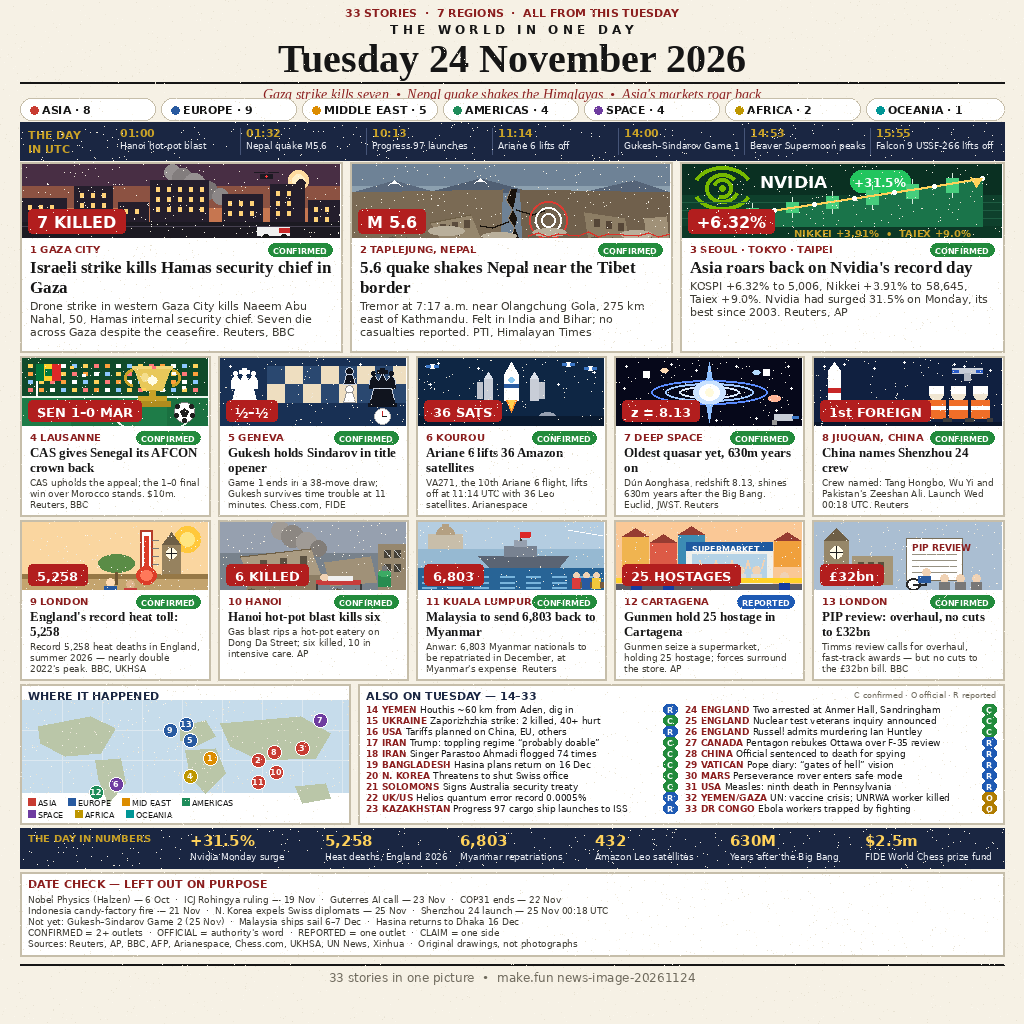
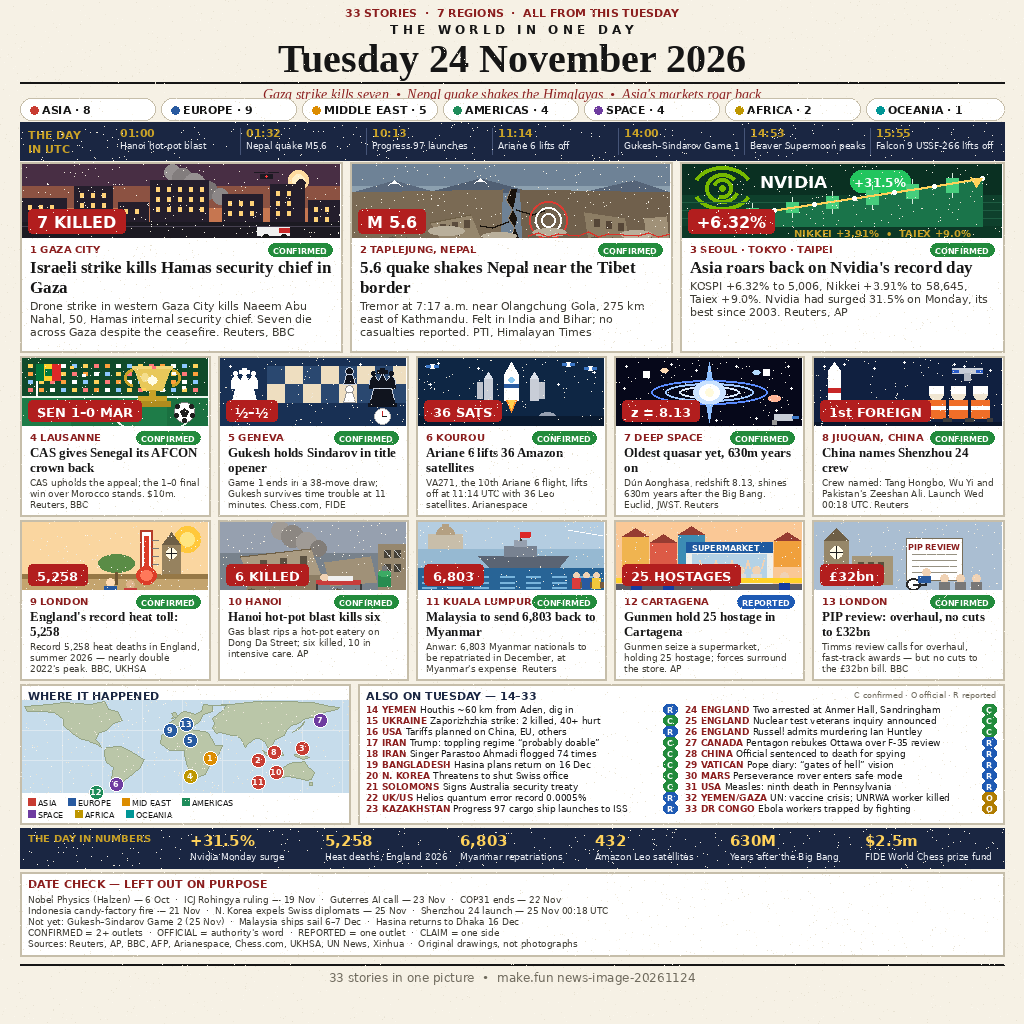
The World in One Day - 24 November 2026 (v8, polish: PIP label, SUPERMARKET label, map continents)

Changed region(s): [[0.0312, 0.6875, 0.3438, 0.7812], [0.875, 0.5312, 0.9375, 0.5625], [0.6875, 0.5312, 0.75, 0.5625]]

diff --git a/README.md b/README.md
@@ -14,7 +14,14 @@ news in one image" bounty ($100 in USDC, 50 paid places). This is the
 seventh revision (v7): a full broadsheet rebuild of v6, following the
 template the round-3 winners use — giant date masthead, region chips, a
 UTC timeline, 13 illustrated cards, a numbered world map, a numbered
-ALSO ON list, THE DAY IN NUMBERS, and a DATE CHECK box. Every card
+ALSO ON list, THE DAY IN NUMBERS, and a DATE CHECK box. This is the
+eighth revision (v8): a polish of v7 from the user's own feedback on
+the v7 image — the "PIP REVIEW" label inside card 13's document now
+fits entirely inside its box (8px, centred), the "SUPERMARKET" label
+in card 12 sits centred inside its blue header band, and the world
+map's landmasses are redrawn as recognisable continents with a thin
+outline instead of abstract green blobs. No fact, number or headline
+changed between v7 and v8. Every card
 carries a status badge (CONFIRMED / OFFICIAL / REPORTED / CLAIM) and a
 source attribution; every story is numbered 1–33 consistently across
 the cards, the map and the list.
@@ -106,10 +113,10 @@ and none of them appears in the 23 November entry.
 `main.ts` (Node 22, standard library only) validates `entry.png` — PNG
 signature, at most 1024×1024 pixels, at most 1 MiB — and copies it byte
 for byte to the output directory. The image itself was drawn by the
-accompanying Python script (`draw_news24_v7.py`) with PIL; running it
+accompanying Python script (`draw_news24_v8.py`) with PIL; running it
 twice produces identical bytes (verified 25 Nov 2026: two runs give
[1 lines of base64/hex data omitted]
-262,428 bytes, and `main.ts` copies it byte-identically). The script
[1 lines of base64/hex data omitted]
+263,377 bytes, and `main.ts` copies it byte-identically). The script
 refuses to draw any glyph
 within 8px of a card or box bottom edge, and refuses a location line
 whose text plus status badge would not fit its card.
